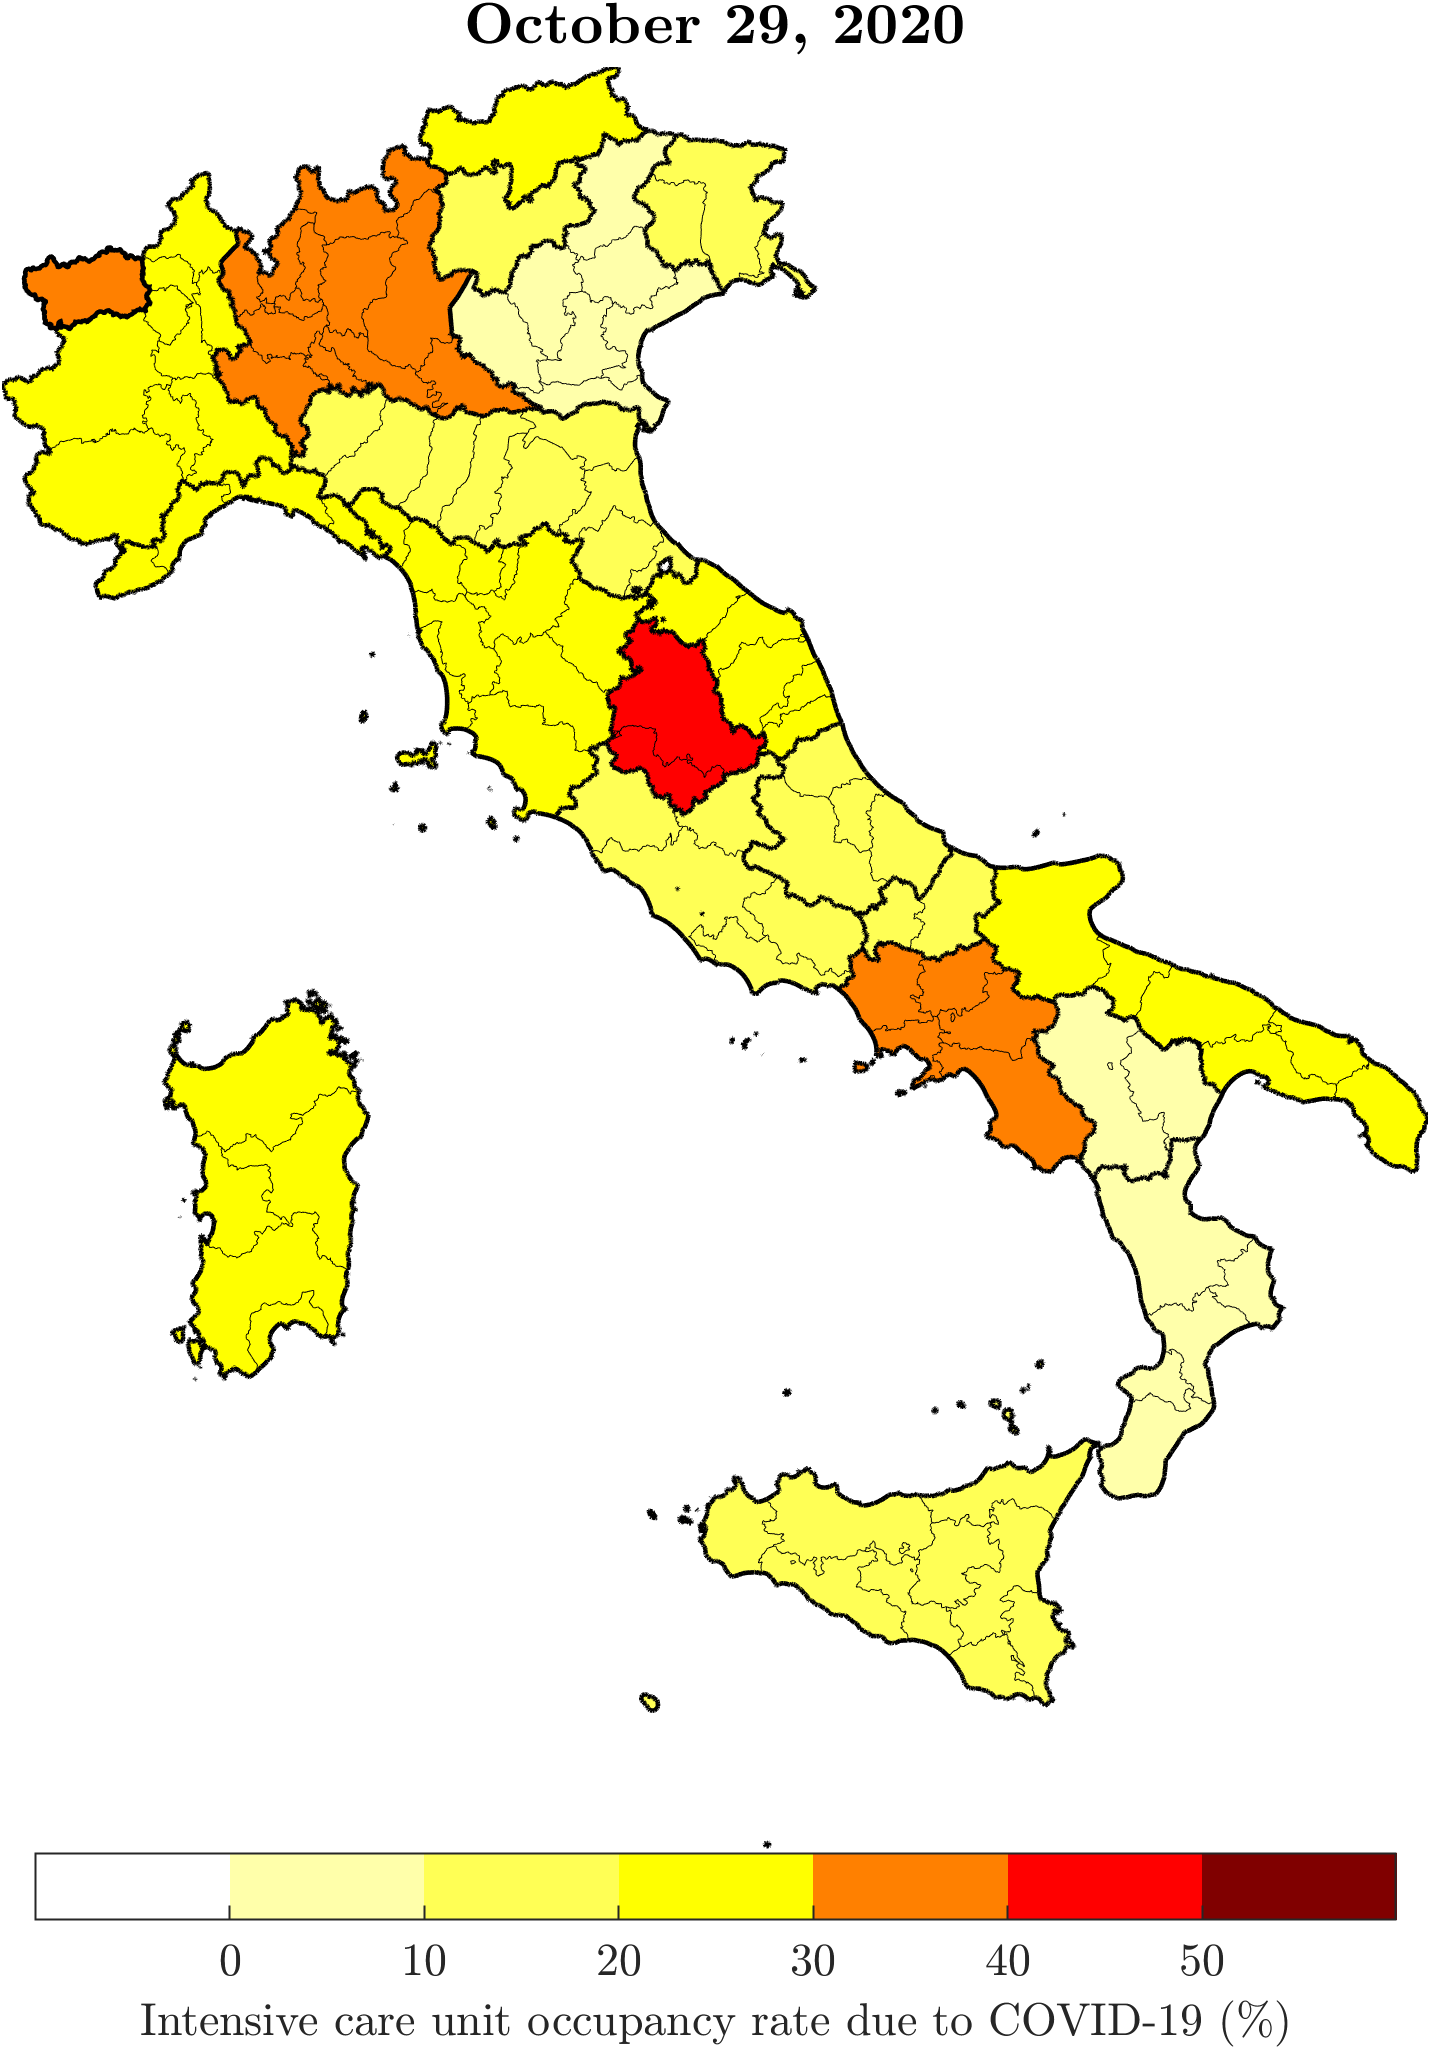
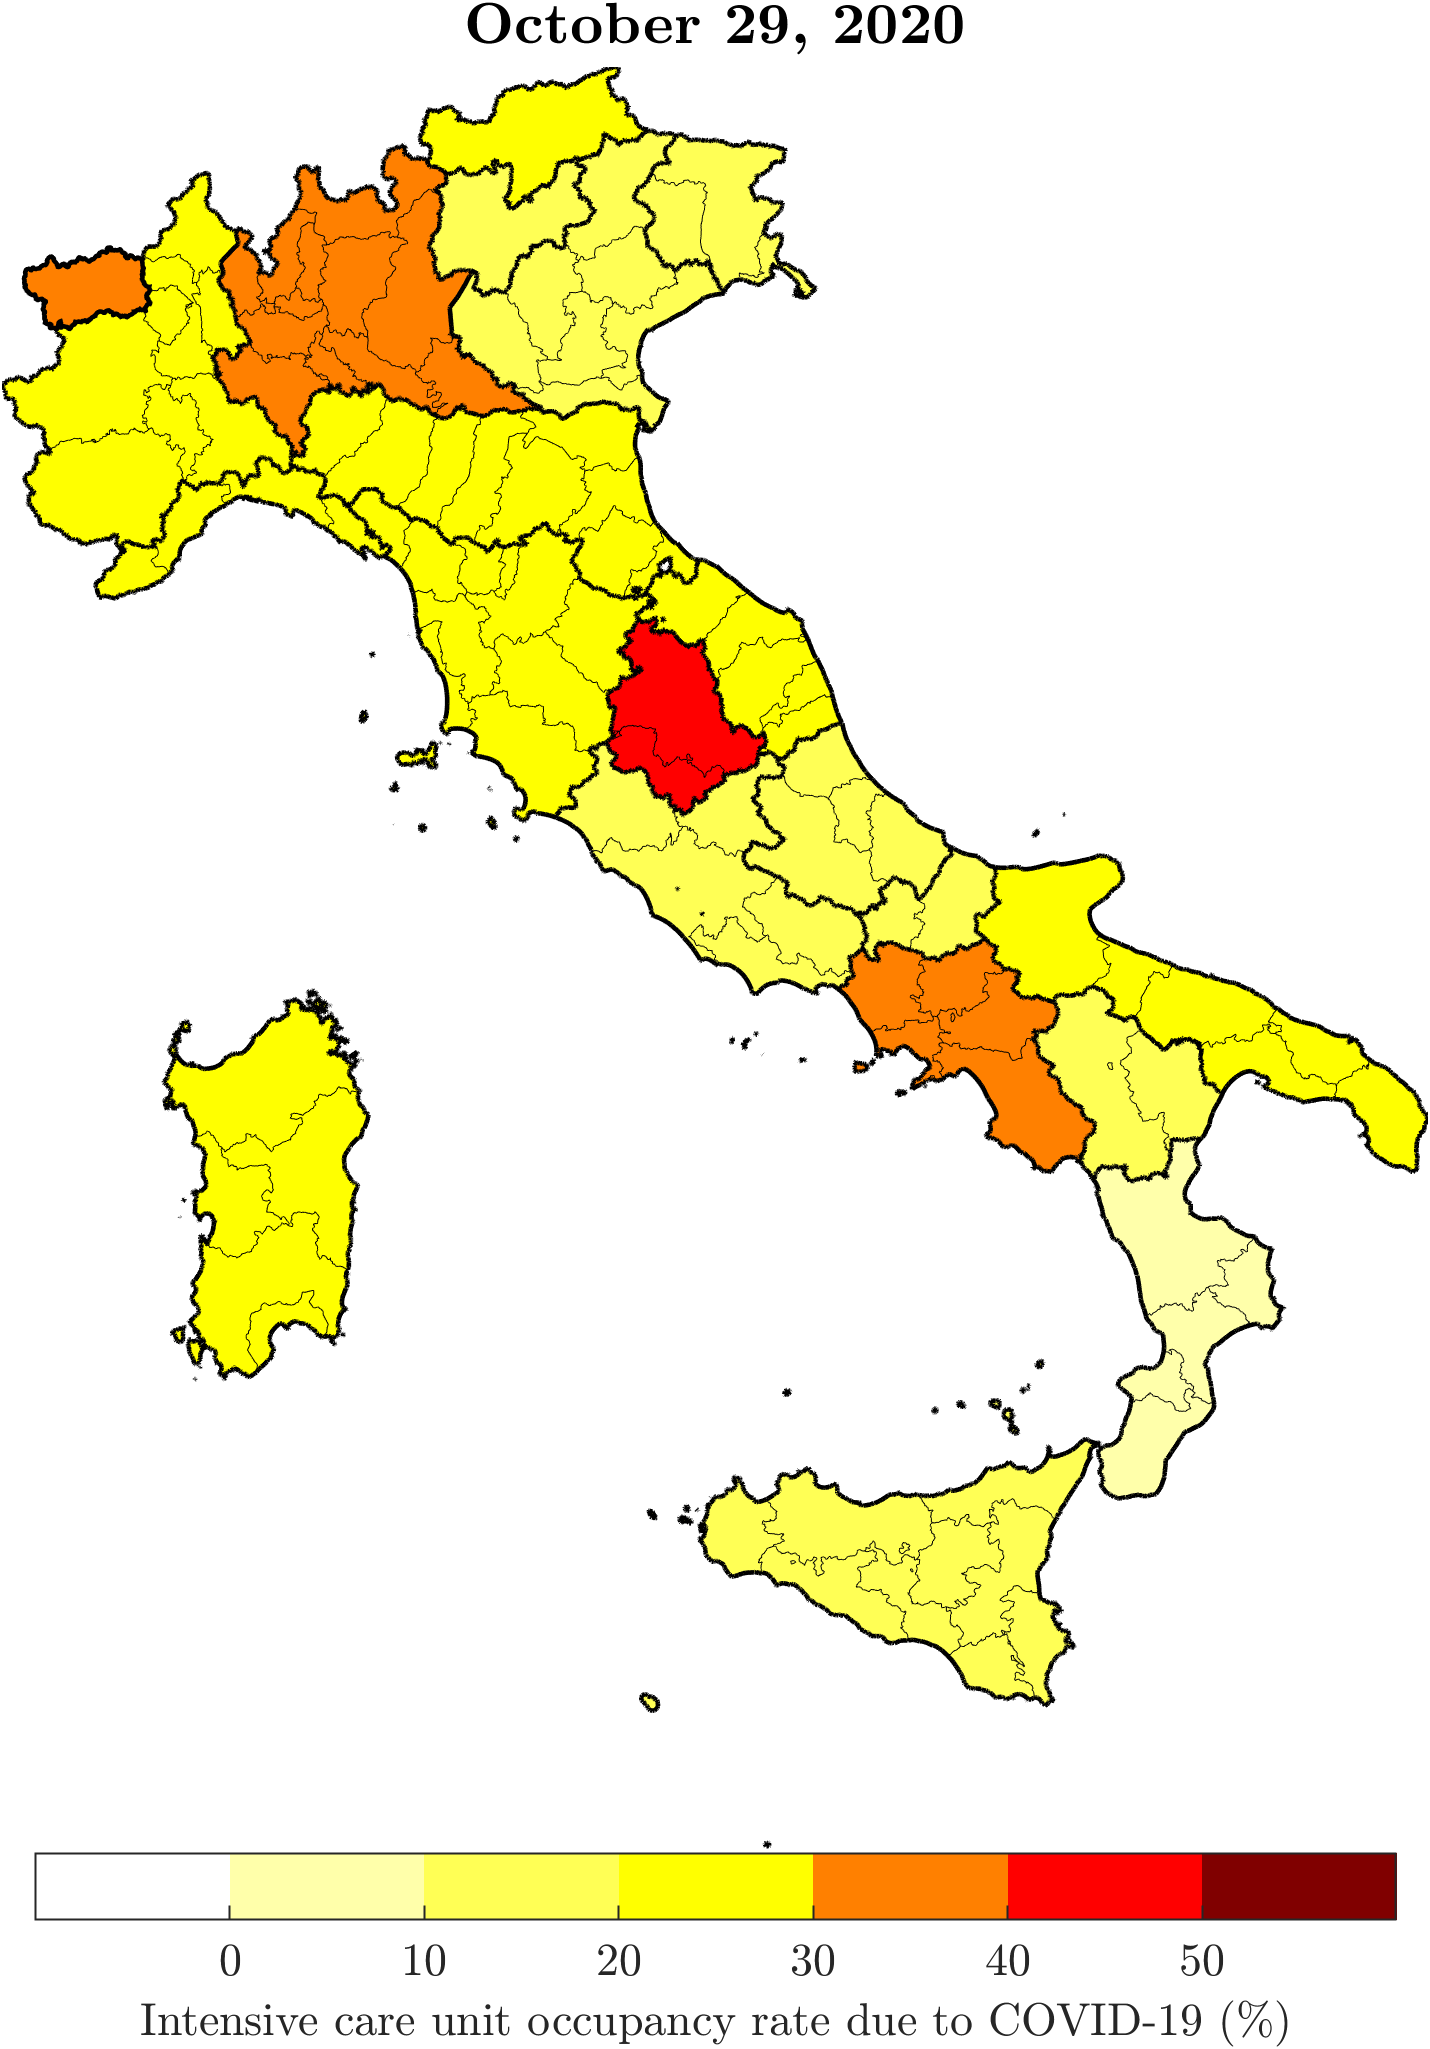
Fix icu data

Changed region(s): [[0.2154, 0.0625, 0.4923, 0.3123], [0.7077, 0.4685, 0.8615, 0.5935]]

diff --git a/matlab/get_region_icu_max.m b/matlab/get_region_icu_max.m
@@ -4,29 +4,29 @@ function icu_max = get_region_icu_max(ID_reg)
     n_regs = 22;
     reg_icu_max = cell(n_regs, 1);
     reg_icu_max{13, 1} = 148;       % Abruzzo
-    reg_icu_max{17, 1} = 73;        % Basilicata
-    reg_icu_max{18, 1} = 239;       % Calabria
+    reg_icu_max{17, 1} = 64;        % Basilicata
+    reg_icu_max{18, 1} = 152;       % Calabria
     reg_icu_max{15, 1} = 505;       % Campania
-    reg_icu_max{08, 1} = 634;       % Emilia
-    reg_icu_max{06, 1} = 180;       % Friuli
+    reg_icu_max{08, 1} = 563;       % Emilia
+    reg_icu_max{06, 1} = 175;       % Friuli
     reg_icu_max{12, 1} = 847;       % Lazio
     reg_icu_max{07, 1} = 209;       % Liguria
     reg_icu_max{03, 1} = 1036;      % Lombardia
     reg_icu_max{11, 1} = 143;       % Marche
-    reg_icu_max{14, 1} = 34;        % Molise
+    reg_icu_max{14, 1} = 30;        % Molise
     reg_icu_max{21, 1} = 55;        % Bolzano
     reg_icu_max{22, 1} = 51;        % Trento
     reg_icu_max{01, 1} = 575;       % Piemonte
     reg_icu_max{16, 1} = 369;       % Puglia
     reg_icu_max{20, 1} = 180;       % Sardegna
     reg_icu_max{19, 1} = 588;       % Sicilia
-    reg_icu_max{09, 1} = 523;       % Toscana
-    reg_icu_max{10, 1} = 101;       % Umbria
+    reg_icu_max{09, 1} = 460;       % Toscana
+    reg_icu_max{10, 1} = 97;       % Umbria
     reg_icu_max{02, 1} = 20;        % Valle
-    reg_icu_max{05, 1} = 1016;      % Veneto
+    reg_icu_max{05, 1} = 825;      % Veneto
     reg_icu_max{04, 1} = 1;         % ---
 
     icu_max = reg_icu_max{ID_reg, 1};
 
-    % SRC: https://lab24.ilsole24ore.com/coronavirus/ (02/Nov/2020)
+    % SRC: https://lab24.ilsole24ore.com/coronavirus/ (28/Oct/2020)
 end
